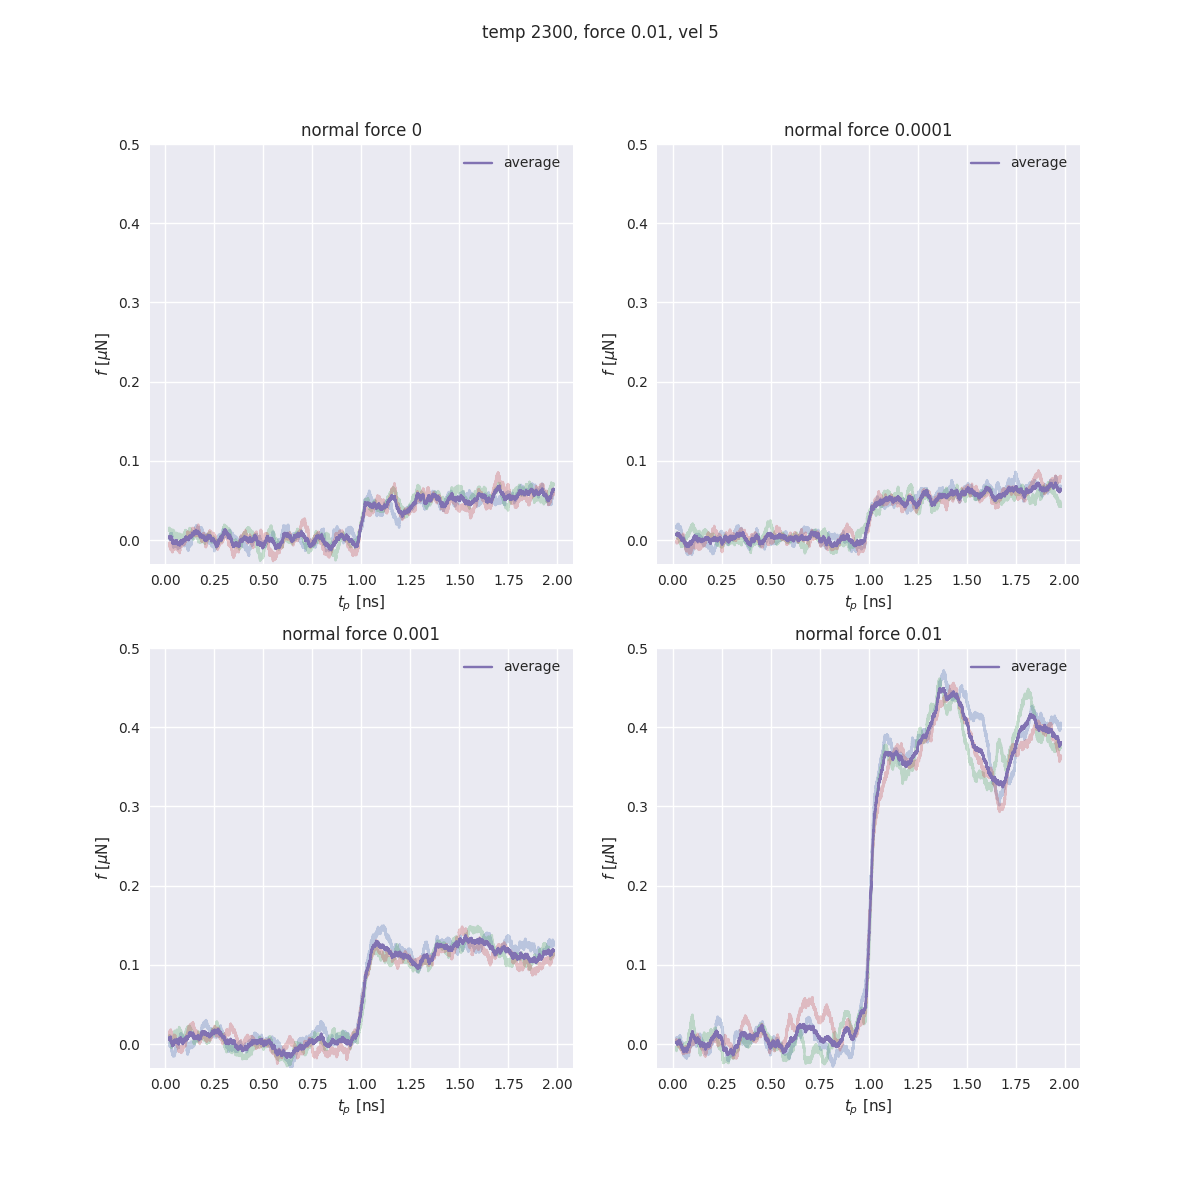
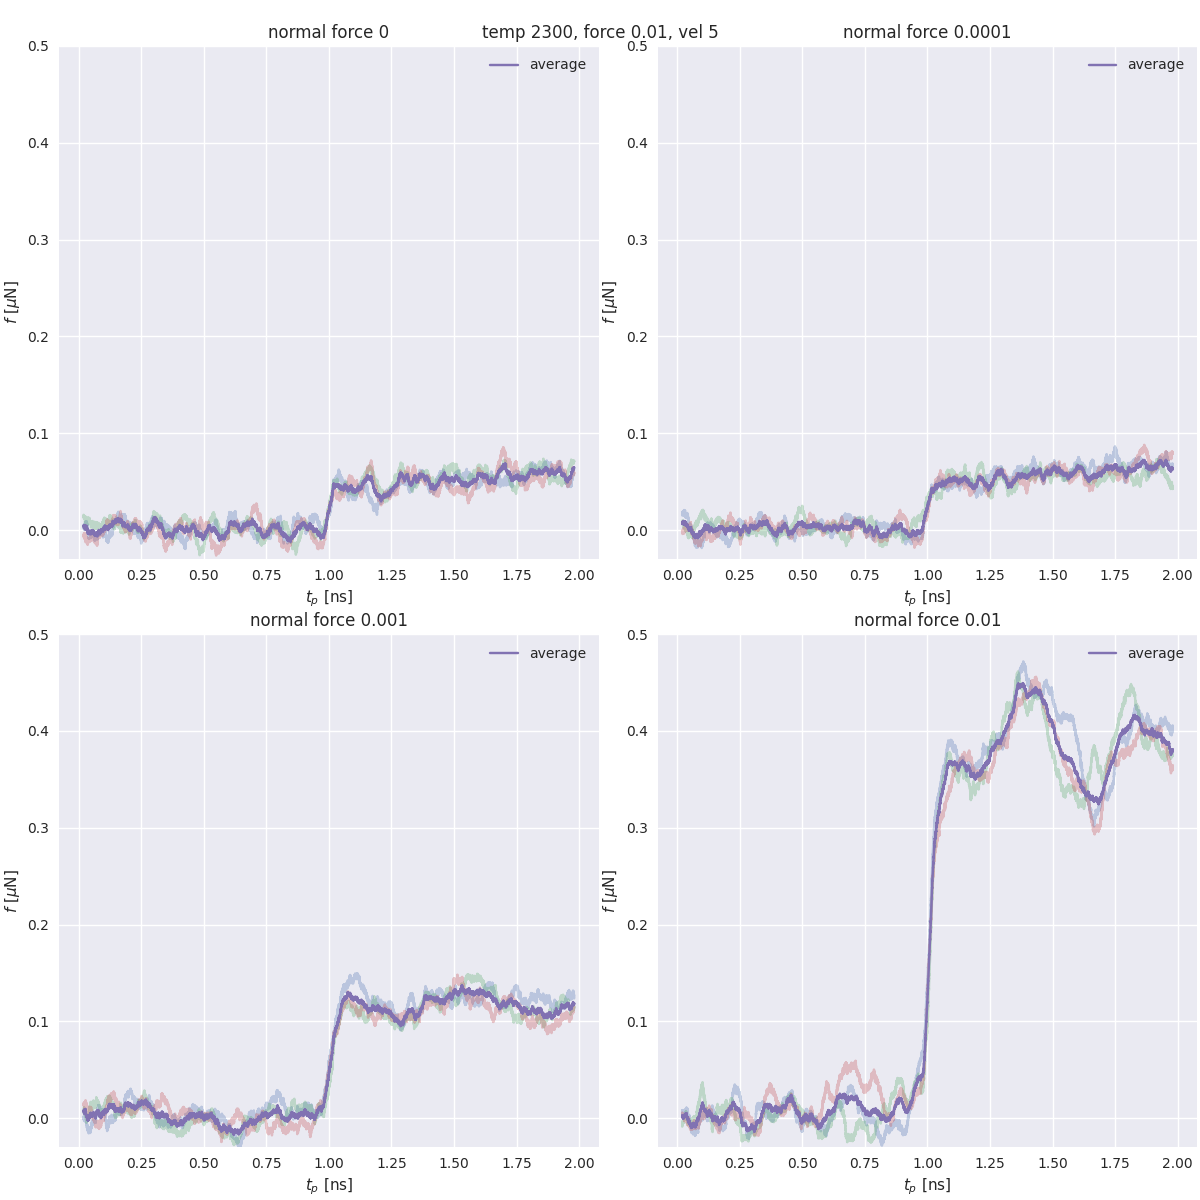
added tight layout, jesus the paspartou

diff --git a/python/plot/plot_load_curves.py b/python/plot/plot_load_curves.py
@@ -577,7 +577,7 @@ def load_vs_normal_force():
     
     plt.suptitle(f"temp {temp}, force {force}, vel {vel}")
     plt.legend()
-    #fig.tight_layout(pad=0.2)
+    fig.tight_layout(pad=0.2)
     plt.savefig(fig_dir + 'varying_normalforce_chess.png')
 
 
